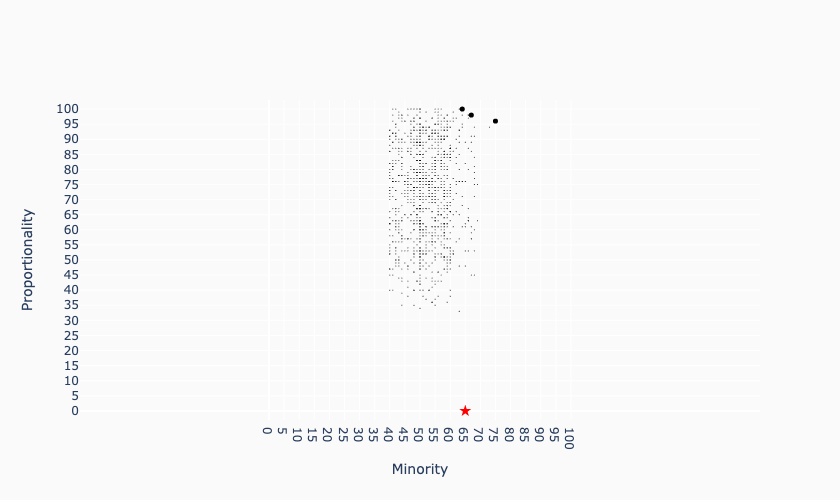
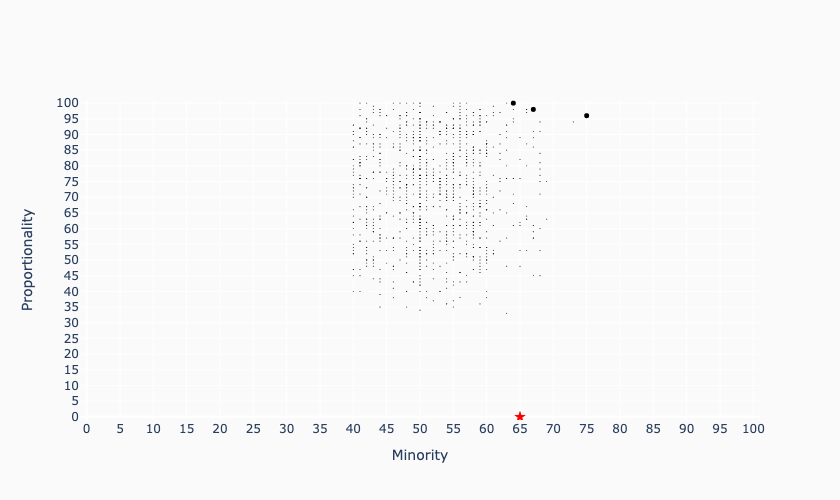
WIP

diff --git a/scripts/make_frontier_plots.py b/scripts/make_frontier_plots.py
@@ -111,12 +111,13 @@ def main() -> None:
 
         xlabel: str = xdim.capitalize()
         ylabel: str = ydim.capitalize()
+        xy_range: List[int] = [-1, 101]
         scatter_layout = {
             "width": plot_width,
             # "height": plot_height,
             "yaxis": {
                 "title_text": ylabel,
-                "range": [-3, 103],
+                "range": xy_range,
                 # "range": [0, 100],
                 "showgrid": True,
                 "zeroline": True,
@@ -129,7 +130,7 @@ def main() -> None:
             },
             "xaxis": {
                 "title_text": xlabel,
-                "range": [-3, 103],
+                "range": xy_range,
                 # "range": [0, 100],
                 "showgrid": True,
                 "zeroline": True,
@@ -139,8 +140,6 @@ def main() -> None:
                 "gridwidth": 1,
                 "zerolinecolor": "rgb(255, 255, 255)",
                 "zerolinewidth": 2,
-                "scaleanchor": "y",
-                "scaleratio": 1,
             },
             # "margin": {"l": 40, "r": 30, "b": 80, "t": 100},
             "showlegend": False,
@@ -166,6 +165,7 @@ def main() -> None:
 
         if args.debug:  # Show the plot in a browser window
             fig.show(config=scatter_config)
+            continue
         else:  # Save the plot to a PNG file
             pio.kaleido.scope.default_format = "png"
             pio.kaleido.scope.default_width = plot_width
@@ -177,7 +177,7 @@ def main() -> None:
             fig.to_image(engine="kaleido")
             fig.write_image(plot_path)
 
-        pass
+        continue
 
 
 def parse_args():
